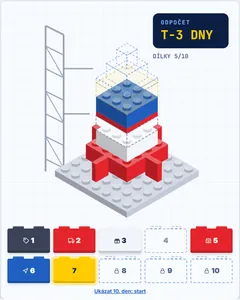
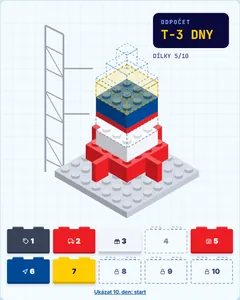
Tidy look picker into one panel, recolour rocket for a toy shop
Thumbnails, the device toggle and a one-line caption of the chosen look
now sit in a single bordered panel; the caption no longer repeats the
category. The rocket countdown uses the Sparkys palette (navy, blue,
light blue, green, yellow, red).

diff --git a/index.html b/index.html
@@ -181,36 +181,37 @@
   .demo-bar .grp.device .seg button { background: #f4f4f5; border-color: transparent; }
   .demo-bar .grp.device .seg button[aria-pressed="true"] { background: var(--ink); border-color: var(--ink); }
 
-  /* výběr vzhledu: pás náhledů jako v galerii, popis vybraného pod ním */
-  .demo-bar { align-items: flex-end; justify-content: space-between; }
-  .vz { min-width: 0; flex: 1 1 auto; }
-  .vz-strip { display: flex; align-items: flex-end; gap: 14px; min-width: 0; }
+  /* výběr vzhledu: jeden panel s náhledy, přepínačem zobrazení a názvem vybraného */
+  .demo-bar { display: grid; grid-template-columns: minmax(0, 1fr) auto; align-items: start; gap: 0 24px; margin: 0 0 22px; padding: 14px 16px 0; border: 1px solid var(--line); border-radius: 18px; background: #fff; }
+  .vz { min-width: 0; }
+  .vz-strip { display: flex; align-items: flex-start; gap: 18px; min-width: 0; padding-bottom: 14px; }
   .vz-set { flex: none; }
-  .vz-k { display: block; margin: 0 0 6px 2px; font-size: 10.5px; font-weight: 700; letter-spacing: .1em; text-transform: uppercase; color: var(--ink-3); white-space: nowrap; }
+  .vz-k { display: block; margin: 0 0 8px; font-size: 10.5px; font-weight: 700; letter-spacing: .1em; text-transform: uppercase; color: var(--ink-3); white-space: nowrap; }
   .vz-thumbs { display: flex; gap: 6px; }
-  .vz-sep { align-self: stretch; width: 1px; margin: 18px 0 2px; background: var(--line); }
-  .vz-th { position: relative; flex: none; width: 60px; height: 75px; padding: 0; border: 0; border-radius: 8px; overflow: hidden; background: #ececef; cursor: pointer; opacity: .55; box-shadow: 0 0 0 1px rgba(0,0,0,.08); transition: opacity .15s ease, transform .15s ease, box-shadow .15s ease; }
+  .vz-sep { align-self: stretch; flex: none; width: 1px; background: var(--line); }
+  .vz-th { position: relative; flex: none; width: 56px; height: 70px; padding: 0; border: 0; border-radius: 8px; overflow: hidden; background: #ececef; cursor: pointer; opacity: .6; box-shadow: 0 0 0 1px rgba(0,0,0,.08); transition: opacity .15s ease, box-shadow .15s ease; }
   .vz-th img { display: block; width: 100%; height: 100%; object-fit: cover; }
-  .vz-th:hover { opacity: 1; transform: translateY(-2px); }
+  .vz-th:hover { opacity: 1; }
   .vz-th:focus-visible { outline: 3px solid var(--accent); outline-offset: 2px; opacity: 1; }
-  .vz-th[aria-pressed="true"] { opacity: 1; box-shadow: 0 0 0 2px #fff, 0 0 0 4px var(--accent), 0 6px 14px rgba(0,0,0,.18); }
+  .vz-th[aria-pressed="true"] { opacity: 1; box-shadow: 0 0 0 2px #fff, 0 0 0 4px var(--accent); }
   /* internal marker for new proposals: remove before publishing */
   .vz-new { position: absolute; right: 4px; top: 4px; width: 8px; height: 8px; border-radius: 50%; background: var(--accent); box-shadow: 0 0 0 2px #fff; }
-  .vz-cap { display: flex; flex-wrap: wrap; align-items: baseline; gap: 4px 10px; margin-top: 12px; min-height: 26px; }
-  .vz-cap-k { font-size: 11px; font-weight: 700; letter-spacing: .1em; text-transform: uppercase; color: var(--ink-3); }
-  .vz-cap strong { font-size: 19px; font-weight: 800; letter-spacing: -0.01em; color: var(--ink); }
-  .vz-cap-m { font-size: 14px; color: var(--ink-3); }
-  .vz-cap-s { align-self: center; padding: 3px 9px; border-radius: 100px; background: #14141a; color: #fff; font-size: 11px; font-weight: 700; }
-  .vz-cap-s.new { background: var(--accent); }
+  .demo-bar .grp.device { display: block; padding: 0; border: 0; }
+  .demo-bar .grp.device .seg { display: flex; gap: 2px; padding: 3px; border-radius: 100px; background: #f1f1f3; }
+  .demo-bar .grp.device .seg button { border: 0; background: transparent; padding: 6px 12px; }
+  .demo-bar .grp.device .seg button[aria-pressed="true"] { background: #fff; color: var(--ink); box-shadow: 0 1px 3px rgba(0,0,0,.14); }
+  .vz-cap { grid-column: 1 / -1; display: flex; flex-wrap: wrap; align-items: center; gap: 4px 12px; padding: 11px 0 12px; border-top: 1px solid var(--line); }
+  .vz-cap strong { font-size: 16px; font-weight: 800; color: var(--ink); }
+  .vz-cap-m { font-size: 13.5px; color: var(--ink-3); }
+  .vz-cap-s { padding: 3px 9px; border-radius: 100px; background: #f1f1f3; color: var(--ink); font-size: 11px; font-weight: 700; }
+  .vz-cap-s.new { background: var(--accent); color: #fff; }
   .vz-cap-s[hidden] { display: none; }
-  .demo-bar .grp.device { flex: none; margin-bottom: 2px; }
   @media (max-width: 860px) {
-    .demo-bar { flex-direction: column; flex-wrap: nowrap; align-items: stretch; }
-    .vz { width: 100%; }
-    .vz-strip { overflow-x: auto; margin: 0 -16px; padding: 4px 16px 8px; scrollbar-width: thin; }
-    .demo-bar .grp.device { align-self: flex-start; }
+    .demo-bar { grid-template-columns: minmax(0, 1fr); }
+    .vz-strip { overflow-x: auto; margin: 0 -16px; padding: 0 16px 12px; scrollbar-width: thin; }
+    .demo-bar .grp.device { justify-self: start; padding-bottom: 12px; }
   }
-  @media (prefers-reduced-motion: reduce) { .vz-th { transition: none; } .vz-th:hover { transform: none; } }
+  @media (prefers-reduced-motion: reduce) { .vz-th { transition: none; } }
   .demo-bar input[type=range] { accent-color: var(--accent); width: 170px; }
   .demo-bar output { font-weight: 800; font-size: 15px; min-width: 28px; display: inline-block; }
   .demo-note { font-size: 13px; color: var(--ink-3); margin: 10px 0 0; }
@@ -312,9 +313,9 @@
   @media (prefers-reduced-motion: reduce) { .demo .d-card, .demo .dc-fx, .demo .shake, .demo .door.just, .demo .win.just { animation: none !important; } .demo .dc-fx { display: none; } }
 
   /* téma: Odpočet ke startu (stavebnice, kreslené v kódu) */
-  .demo[data-theme="raketa"] { --d-bg: #eef3fb; --d-ink: #0b1f44; --d-ink-2: #4a5f86; --d-today: #ffcc00; --d-today-ink: #0b1f44; --d-btn: #e3242b; --d-btn-ink: #fff; --d-font: 'Inter', 'Inter Fallback', Arial, sans-serif; --d-card: #fff; --d-card-line: #d3deef; }
+  .demo[data-theme="raketa"] { --d-bg: #d4edfc; --d-ink: #0b093b; --d-ink-2: #3d4a7a; --d-today: #ffcd00; --d-today-ink: #0b093b; --d-btn: #52c018; --d-btn-ink: #fff; --d-font: 'Inter', 'Inter Fallback', Arial, sans-serif; --d-card: #fff; --d-card-line: #b9dcf3; }
   .demo[data-theme="raketa"] .d-title { font-weight: 900; letter-spacing: -0.035em; }
-  .demo .scene.raketa { aspect-ratio: 4 / 5; max-width: 480px; display: flex; flex-direction: column; background: #f8fbff; border: 1px solid #d3deef; box-shadow: 0 16px 40px rgba(11,31,68,.16); }
+  .demo .scene.raketa { aspect-ratio: 4 / 5; max-width: 480px; display: flex; flex-direction: column; background: #f3faff; border: 1px solid #b9dcf3; box-shadow: 0 16px 40px rgba(11,31,68,.16); }
   .demo .scene.raketa .rk { display: block; width: 100%; flex: 1 1 auto; min-height: 0; }
   .demo .rk .rk-l { transform-box: view-box; }
   .demo .rk .rk-l.today { animation: rkHint 1.6s ease-in-out infinite; }
@@ -335,17 +336,17 @@
   .demo .rk.launch .rk-done { animation: rkDone .6s 2.6s ease both; }
   @keyframes rkDone { from { opacity: 0; transform: translateY(10px); } to { opacity: 1; transform: none; } }
   .demo .rk-dily { display: grid; grid-template-columns: repeat(5, minmax(0, 1fr)); gap: 14px 8px; padding: 4px 16px 14px; }
-  .demo .dil { position: relative; aspect-ratio: 2 / 1.15; border: 0; border-radius: 4px; padding: 0; font: inherit; font-weight: 900; font-size: clamp(13px, 1.6vw, 17px); color: #fff; background: var(--c, #1f5fbf); box-shadow: inset 0 -5px 0 rgba(0,0,0,.18), 0 3px 6px rgba(11,31,68,.18); display: flex; align-items: center; justify-content: center; gap: 4px; transition: transform .15s ease; }
+  .demo .dil { position: relative; aspect-ratio: 2 / 1.15; border: 0; border-radius: 4px; padding: 0; font: inherit; font-weight: 900; font-size: clamp(13px, 1.6vw, 17px); color: #fff; background: var(--c, #004996); box-shadow: inset 0 -5px 0 rgba(0,0,0,.18), 0 3px 6px rgba(11,31,68,.18); display: flex; align-items: center; justify-content: center; gap: 4px; transition: transform .15s ease; }
   .demo .dil::before, .demo .dil::after { content: ""; position: absolute; top: -6px; width: 26%; height: 7px; border-radius: 3px 3px 0 0; background: inherit; box-shadow: inset 0 2px 0 rgba(255,255,255,.35); }
   .demo .dil::before { left: 13%; } .demo .dil::after { right: 13%; }
   .demo .dil:hover { transform: translateY(-2px); }
   .demo .dil svg { width: 15px; height: 15px; }
-  .demo .dil.locked, .demo .dil.missed { background: transparent; color: #4a5f86; box-shadow: none; outline: 2px dashed rgba(31,95,191,.45); outline-offset: -2px; }
-  .demo .dil.locked::before, .demo .dil.locked::after, .demo .dil.missed::before, .demo .dil.missed::after { background: transparent; box-shadow: none; outline: 2px dashed rgba(31,95,191,.35); outline-offset: -2px; }
+  .demo .dil.locked, .demo .dil.missed { background: transparent; color: #3d4a7a; box-shadow: none; outline: 2px dashed rgba(0,73,150,.45); outline-offset: -2px; }
+  .demo .dil.locked::before, .demo .dil.locked::after, .demo .dil.missed::before, .demo .dil.missed::after { background: transparent; box-shadow: none; outline: 2px dashed rgba(0,73,150,.35); outline-offset: -2px; }
   .demo .dil.missed { color: #8a94a8; text-decoration: line-through; outline-color: rgba(138,148,168,.6); }
-  .demo .dil.today { background: #ffcc00; color: #0b1f44; animation: rkPulse 1.6s ease-in-out infinite; }
+  .demo .dil.today { background: #ffcd00; color: #0b093b; animation: rkPulse 1.6s ease-in-out infinite; }
   @keyframes rkPulse { 50% { box-shadow: inset 0 -5px 0 rgba(0,0,0,.12), 0 0 0 6px rgba(255,204,0,.35); } }
-  .demo .rk-start { align-self: center; margin: -4px 0 10px; border: 0; background: none; font: inherit; font-size: 12.5px; font-weight: 700; color: #1f5fbf; text-decoration: underline; cursor: pointer; }
+  .demo .rk-start { align-self: center; margin: -4px 0 10px; border: 0; background: none; font: inherit; font-size: 12.5px; font-weight: 700; color: #004996; text-decoration: underline; cursor: pointer; }
   @media (prefers-reduced-motion: reduce) { .demo .rk .rk-l.today, .demo .rk .rk-l.drop, .demo .rk .rk-ring, .demo .dil.today, .demo .rk.launch .rk-ship, .demo .rk.launch .rk-flame { animation: none; } .demo .rk.launch .rk-done { animation: none; opacity: 1; } }
   /* téma: 7 nocí pro lepší spánek (fotka z Higgsfieldu, měsíc a světla v kódu) */
   .demo[data-theme="spani"] { --d-bg: #f5f1ec; --d-ink: #483628; --d-ink-2: #7d6b5c; --d-today: #c3a15a; --d-today-ink: #fff; --d-btn: #c3a15a; --d-btn-ink: #fff; --d-font: 'Inter', 'Inter Fallback', Arial, sans-serif; --d-card: #fff; --d-card-line: #e2dfdd; }
@@ -1185,14 +1186,14 @@
           <button type="button" class="vz-th" data-theme="pas" aria-pressed="false" aria-label="Cestovní pas" title="Cestovní pas" data-kat="Kdykoli během roku" data-meta="Duty free na hranici · 14 dní" data-stitek="Nový návrh" data-review-id="demo-vzhled-pas"><img src="img/nahledy/pas.webp" alt="" width="60" height="75" decoding="async"><i class="vz-new" aria-hidden="true"></i></button>
         </div></div>
       </div>
-      <div class="vz-cap" id="vz-cap" aria-live="polite"><span class="vz-cap-k" id="vz-cap-k">Vánoce a advent</span><strong id="vz-cap-t">Dům s okny</strong><span class="vz-cap-m" id="vz-cap-m">Fototechnika · 24 dní</span><span class="vz-cap-s" id="vz-cap-s">Skutečná kampaň</span></div>
     </div>
-    <div class="grp device"><span class="lbl" id="lbl-zarizeni">Zobrazení</span>
+    <div class="grp device"><span class="lbl vz-k" id="lbl-zarizeni">Zobrazení</span>
       <div class="seg" role="group" aria-labelledby="lbl-zarizeni">
         <button type="button" data-device="desktop" aria-pressed="true" data-review-id="demo-zobrazeni-pocitac"><svg viewBox="0 0 24 24" fill="none" stroke="currentColor" stroke-width="2" stroke-linecap="round" stroke-linejoin="round" aria-hidden="true" style="width:14px;height:14px"><rect x="2" y="4" width="20" height="13" rx="2"/><path d="M8 21h8M12 17v4"/></svg>Počítač</button>
         <button type="button" data-device="mobile" aria-pressed="false" data-review-id="demo-zobrazeni-mobil"><svg viewBox="0 0 24 24" fill="none" stroke="currentColor" stroke-width="2" stroke-linecap="round" stroke-linejoin="round" aria-hidden="true" style="width:14px;height:14px"><rect x="6" y="2" width="12" height="20" rx="2.5"/><path d="M11 18h2"/></svg>Mobil</button>
       </div>
     </div>
+    <div class="vz-cap" id="vz-cap" aria-live="polite"><strong id="vz-cap-t">Dům s okny</strong><span class="vz-cap-m" id="vz-cap-m">Fototechnika · 24 dní</span><span class="vz-cap-s" id="vz-cap-s">Skutečná kampaň</span></div>
   </div>
 
   <div class="demo-frame" id="demo-frame" data-review-id="demo-ram">
@@ -1577,7 +1578,7 @@
     '<ellipse cx="581" cy="480" rx="48" ry="44" fill="#000" opacity=".35"/><circle cx="575" cy="468" r="47" fill="#ffd400"/><circle cx="575" cy="468" r="45" fill="none" stroke="#c9a200" stroke-width="4"/><circle cx="575" cy="472" r="38" fill="#c2004e"/><circle cx="575" cy="468" r="37" fill="#ff0066"/><circle cx="575" cy="466" r="27" fill="#fff"/><circle cx="575" cy="466" r="25" fill="none" stroke="#ffd1e3" stroke-width="4"/><path d="M545 454 A33 33 0 0 1 569 434" stroke="#fff" stroke-width="5" stroke-linecap="round" fill="none" opacity=".75"/>' +
     '<ellipse cx="471" cy="584" rx="48" ry="44" fill="#000" opacity=".35"/><circle cx="465" cy="572" r="47" fill="#44bdb4"/><circle cx="465" cy="572" r="45" fill="none" stroke="#c9a200" stroke-width="4"/><circle cx="465" cy="576" r="38" fill="#c2004e"/><circle cx="465" cy="572" r="37" fill="#ff0066"/><circle cx="465" cy="570" r="27" fill="#fff"/><circle cx="465" cy="570" r="25" fill="none" stroke="#ffd1e3" stroke-width="4"/><path d="M435 558 A33 33 0 0 1 459 538" stroke="#fff" stroke-width="5" stroke-linecap="round" fill="none" opacity=".75"/>' +
     '<circle cx="144" cy="484" r="32" fill="#000" opacity=".3"/><circle cx="144" cy="480" r="32" fill="#002651"/><circle cx="144" cy="480" r="27" fill="#ff0066"/><circle cx="144" cy="480" r="25" fill="none" stroke="#c2004e" stroke-width="4"/><circle cx="144" cy="480" r="27" fill="url(#pb-shine)"/><path d="M135.6 433.6 L144 425.2 L152.4 433.6" fill="none" stroke="#ff0066" stroke-width="3.5999999999999996" stroke-linecap="round" stroke-linejoin="round" opacity="0.5"/><circle cx="144" cy="584" r="32" fill="#000" opacity=".3"/><circle cx="144" cy="580" r="32" fill="#002651"/><circle cx="144" cy="580" r="27" fill="#ff0066"/><circle cx="144" cy="580" r="25" fill="none" stroke="#c2004e" stroke-width="4"/><circle cx="144" cy="580" r="27" fill="url(#pb-shine)"/><path d="M135.6 533.6 L144 525.2 L152.4 533.6" fill="none" stroke="#ff0066" stroke-width="3.5999999999999996" stroke-linecap="round" stroke-linejoin="round" opacity="0.5"/><circle cx="144" cy="684" r="32" fill="#000" opacity=".3"/><circle cx="144" cy="680" r="32" fill="#002651"/><circle cx="144" cy="680" r="27" fill="#ff0066"/><circle cx="144" cy="680" r="25" fill="none" stroke="#c2004e" stroke-width="4"/><circle cx="144" cy="680" r="27" fill="url(#pb-shine)"/><path d="M135.6 633.6 L144 625.2 L152.4 633.6" fill="none" stroke="#ff0066" stroke-width="3.5999999999999996" stroke-linecap="round" stroke-linejoin="round" opacity="0.5"/><circle cx="788" cy="484" r="32" fill="#000" opacity=".3"/><circle cx="788" cy="480" r="32" fill="#002651"/><circle cx="788" cy="480" r="27" fill="#ff0066"/><circle cx="788" cy="480" r="25" fill="none" stroke="#c2004e" stroke-width="4"/><circle cx="788" cy="480" r="27" fill="url(#pb-shine)"/><path d="M779.6 433.6 L788 425.2 L796.4 433.6" fill="none" stroke="#ff0066" stroke-width="3.5999999999999996" stroke-linecap="round" stroke-linejoin="round" opacity="0.5"/><circle cx="788" cy="584" r="32" fill="#000" opacity=".3"/><circle cx="788" cy="580" r="32" fill="#002651"/><circle cx="788" cy="580" r="27" fill="#ff0066"/><circle cx="788" cy="580" r="25" fill="none" stroke="#c2004e" stroke-width="4"/><circle cx="788" cy="580" r="27" fill="url(#pb-shine)"/><path d="M779.6 533.6 L788 525.2 L796.4 533.6" fill="none" stroke="#ff0066" stroke-width="3.5999999999999996" stroke-linecap="round" stroke-linejoin="round" opacity="0.5"/><circle cx="788" cy="684" r="32" fill="#000" opacity=".3"/><circle cx="788" cy="680" r="32" fill="#002651"/><circle cx="788" cy="680" r="27" fill="#ff0066"/><circle cx="788" cy="680" r="25" fill="none" stroke="#c2004e" stroke-width="4"/><circle cx="788" cy="680" r="27" fill="url(#pb-shine)"/><path d="M779.6 633.6 L788 625.2 L796.4 633.6" fill="none" stroke="#ff0066" stroke-width="3.5999999999999996" stroke-linecap="round" stroke-linejoin="round" opacity="0.5"/>' +
-    '<rect x="240" y="716" width="450" height="20" rx="8" fill="#002651"/><rect x="240" y="716" width="450" height="20" rx="8" fill="none" stroke="url(#pb-chrome)" stroke-width="3"/><rect x="261" y="675" width="58" height="50" rx="9" fill="#000" opacity=".3"/><rect x="256" y="668" width="58" height="52" rx="9" fill="#c79a00"/><rect x="256" y="668" width="58" height="44" rx="9" fill="#ffcc00"/><rect x="264" y="675" width="42" height="9" rx="4.5" fill="#fff" opacity=".45"/><rect x="351" y="675" width="58" height="50" rx="9" fill="#000" opacity=".3"/><rect x="346" y="668" width="58" height="52" rx="9" fill="#c79a00"/><rect x="346" y="668" width="58" height="44" rx="9" fill="#ffcc00"/><rect x="354" y="675" width="42" height="9" rx="4.5" fill="#fff" opacity=".45"/><rect x="441" y="675" width="58" height="50" rx="9" fill="#000" opacity=".3"/><rect x="436" y="668" width="58" height="52" rx="9" fill="#c79a00"/><rect x="436" y="668" width="58" height="44" rx="9" fill="#ffcc00"/><rect x="444" y="675" width="42" height="9" rx="4.5" fill="#fff" opacity=".45"/><rect x="531" y="675" width="58" height="50" rx="9" fill="#000" opacity=".3"/><rect x="526" y="668" width="58" height="52" rx="9" fill="#c79a00"/><rect x="526" y="668" width="58" height="44" rx="9" fill="#ffcc00"/><rect x="534" y="675" width="42" height="9" rx="4.5" fill="#fff" opacity=".45"/><rect x="621" y="675" width="58" height="50" rx="9" fill="#000" opacity=".3"/><rect x="616" y="668" width="58" height="52" rx="9" fill="#c79a00"/><rect x="616" y="668" width="58" height="44" rx="9" fill="#ffcc00"/><rect x="624" y="675" width="42" height="9" rx="4.5" fill="#fff" opacity=".45"/>' +
+    '<rect x="240" y="716" width="450" height="20" rx="8" fill="#002651"/><rect x="240" y="716" width="450" height="20" rx="8" fill="none" stroke="url(#pb-chrome)" stroke-width="3"/><rect x="261" y="675" width="58" height="50" rx="9" fill="#000" opacity=".3"/><rect x="256" y="668" width="58" height="52" rx="9" fill="#c79a00"/><rect x="256" y="668" width="58" height="44" rx="9" fill="#ffcd00"/><rect x="264" y="675" width="42" height="9" rx="4.5" fill="#fff" opacity=".45"/><rect x="351" y="675" width="58" height="50" rx="9" fill="#000" opacity=".3"/><rect x="346" y="668" width="58" height="52" rx="9" fill="#c79a00"/><rect x="346" y="668" width="58" height="44" rx="9" fill="#ffcd00"/><rect x="354" y="675" width="42" height="9" rx="4.5" fill="#fff" opacity=".45"/><rect x="441" y="675" width="58" height="50" rx="9" fill="#000" opacity=".3"/><rect x="436" y="668" width="58" height="52" rx="9" fill="#c79a00"/><rect x="436" y="668" width="58" height="44" rx="9" fill="#ffcd00"/><rect x="444" y="675" width="42" height="9" rx="4.5" fill="#fff" opacity=".45"/><rect x="531" y="675" width="58" height="50" rx="9" fill="#000" opacity=".3"/><rect x="526" y="668" width="58" height="52" rx="9" fill="#c79a00"/><rect x="526" y="668" width="58" height="44" rx="9" fill="#ffcd00"/><rect x="534" y="675" width="42" height="9" rx="4.5" fill="#fff" opacity=".45"/><rect x="621" y="675" width="58" height="50" rx="9" fill="#000" opacity=".3"/><rect x="616" y="668" width="58" height="52" rx="9" fill="#c79a00"/><rect x="616" y="668" width="58" height="44" rx="9" fill="#ffcd00"/><rect x="624" y="675" width="42" height="9" rx="4.5" fill="#fff" opacity=".45"/>' +
     '<circle cx="465" cy="819" r="32" fill="#000" opacity=".3"/><circle cx="465" cy="815" r="32" fill="#002651"/><circle cx="465" cy="815" r="27" fill="#1dca62"/><circle cx="465" cy="815" r="25" fill="none" stroke="#c9a200" stroke-width="4"/><circle cx="465" cy="815" r="27" fill="url(#pb-shine)"/><circle cx="465" cy="899" r="32" fill="#000" opacity=".3"/><circle cx="465" cy="895" r="32" fill="#002651"/><circle cx="465" cy="895" r="27" fill="#ffd400"/><circle cx="465" cy="895" r="25" fill="none" stroke="#c9a200" stroke-width="4"/><circle cx="465" cy="895" r="27" fill="url(#pb-shine)"/><circle cx="465" cy="979" r="32" fill="#000" opacity=".3"/><circle cx="465" cy="975" r="32" fill="#002651"/><circle cx="465" cy="975" r="27" fill="#44bdb4"/><circle cx="465" cy="975" r="25" fill="none" stroke="#c9a200" stroke-width="4"/><circle cx="465" cy="975" r="27" fill="url(#pb-shine)"/>' +
     '<path d="M122 845 L122 1030 L282 1075 Z" fill="#000" opacity=".3" transform="translate(6 8)" stroke="#000" stroke-width="16" stroke-linejoin="round"/><path d="M122 845 L122 1030 L282 1075 Z" fill="#ff0066" stroke="#fff" stroke-width="16" stroke-linejoin="round"/><path d="M122 845 L122 1030 L282 1075 Z" fill="none" stroke="#c2004e" stroke-width="3" stroke-linejoin="round"/><circle cx="170" cy="1004" r="29" fill="#000" opacity=".3"/><circle cx="170" cy="1000" r="29" fill="#002651"/><circle cx="170" cy="1000" r="24" fill="#1dca62"/><circle cx="170" cy="1000" r="22" fill="none" stroke="#c9a200" stroke-width="4"/><circle cx="170" cy="1000" r="24" fill="url(#pb-shine)"/>' +
     '<path d="M808 845 L808 1030 L648 1075 Z" fill="#000" opacity=".3" transform="translate(6 8)" stroke="#000" stroke-width="16" stroke-linejoin="round"/><path d="M808 845 L808 1030 L648 1075 Z" fill="#ff0066" stroke="#fff" stroke-width="16" stroke-linejoin="round"/><path d="M808 845 L808 1030 L648 1075 Z" fill="none" stroke="#c2004e" stroke-width="3" stroke-linejoin="round"/><circle cx="760" cy="1004" r="29" fill="#000" opacity=".3"/><circle cx="760" cy="1000" r="29" fill="#002651"/><circle cx="760" cy="1000" r="24" fill="#ffd400"/><circle cx="760" cy="1000" r="22" fill="none" stroke="#c9a200" stroke-width="4"/><circle cx="760" cy="1000" r="24" fill="url(#pb-shine)"/>' +
@@ -1608,15 +1609,15 @@
   // raketa ze stavebnice: izometrické kostky v SVG, jedna vrstva = jeden den
   var RK = [
     { w: 2, h: 1, c: '#3b4357' },
-    { w: 4, h: 1.2, c: '#e3242b', fins: 1 },
+    { w: 4, h: 1.2, c: '#ee1d23', fins: 1 },
     { w: 3, h: 1.2, c: '#f2f5fa' },
     { w: 3, h: 1.2, c: '#f2f5fa', win: 1 },
-    { w: 3, h: 0.4, c: '#e3242b' },
-    { w: 3, h: 1.2, c: '#1f5fbf' },
+    { w: 3, h: 0.4, c: '#ee1d23' },
+    { w: 3, h: 1.2, c: '#004996' },
     { w: 3, h: 1.2, c: '#f2f5fa', win: 1 },
-    { w: 3, h: 0.4, c: '#ffcc00' },
-    { w: 2, h: 1.2, c: '#e3242b' },
-    { w: 1, h: 1.2, c: '#e3242b', ant: 1 }
+    { w: 3, h: 0.4, c: '#ffcd00' },
+    { w: 2, h: 1.2, c: '#52c018' },
+    { w: 1, h: 1.2, c: '#ee1d23', ant: 1 }
   ];
   function odstin(hex, f) {
     var n = parseInt(hex.slice(1), 16), r = n >> 16, g = n >> 8 & 255, b = n & 255, t = f < 0 ? 0 : 255, p = Math.abs(f);
@@ -1640,11 +1641,11 @@
     }
     function okynko(x, z) {
       var p = P(x, 0, z).split(','), a = -K * U * 0.55, b = 0.5 * U * 0.55, d = -U * 0.55;
-      return '<g transform="matrix(' + a.toFixed(2) + ' ' + b.toFixed(2) + ' 0 ' + d.toFixed(2) + ' ' + p[0] + ' ' + p[1] + ')"><circle r="1" fill="#c9d6ea"/><circle r=".72" fill="#0b1f44"/><circle cx="-.25" cy=".25" r=".22" fill="#7fb2ff"/></g>';
+      return '<g transform="matrix(' + a.toFixed(2) + ' ' + b.toFixed(2) + ' 0 ' + d.toFixed(2) + ' ' + p[0] + ' ' + p[1] + ')"><circle r="1" fill="#c9d6ea"/><circle r=".72" fill="#0b093b"/><circle cx="-.25" cy=".25" r=".22" fill="#7fb2ff"/></g>';
     }
     function vrstva(L, z, s) {
       var x0 = -L.w / 2, out = '';
-      var ghost = s === 'missed' ? 'fill="none" stroke="#8a94a8" stroke-width="1.4" stroke-dasharray="4 3"' : s === 'today' ? 'fill="rgba(255,204,0,.22)" stroke="#e0a800" stroke-width="2" stroke-dasharray="5 3"' : 'fill="none" stroke="#1f5fbf" stroke-opacity=".45" stroke-width="1.2" stroke-dasharray="3 3"';
+      var ghost = s === 'missed' ? 'fill="none" stroke="#8a94a8" stroke-width="1.4" stroke-dasharray="4 3"' : s === 'today' ? 'fill="rgba(255,204,0,.22)" stroke="#e0a800" stroke-width="2" stroke-dasharray="5 3"' : 'fill="none" stroke="#004996" stroke-opacity=".45" stroke-width="1.2" stroke-dasharray="3 3"';
       if (s !== 'open') {
         if (L.fins) out += kvadr(x0 - 1.2, -0.2, z, 1.2, 0.4, L.h, '', ghost) + kvadr(-0.2, x0 - 1.2, z, 0.4, 1.2, L.h, '', ghost);
         out += kvadr(x0, x0, z, L.w, L.w, L.h, '', ghost);
@@ -1654,12 +1655,12 @@
       if (L.fins) out += kvadr(x0 - 1.2, -0.2, z - 0.3, 1.2, 0.4, L.h + 0.3, L.c) + kvadr(-0.2, x0 - 1.2, z - 0.3, 0.4, 1.2, L.h + 0.3, L.c);
       out += kvadr(x0, x0, z, L.w, L.w, L.h, L.c);
       if (L.win) out += okynko(-x0, z + L.h / 2);
-      if (L.ant) out += kvadr(-0.15, -0.15, z + L.h, 0.3, 0.3, 0.9, '#9aa3b5') + '<circle cx="' + P(0, 0, z + L.h + 1.05).split(',')[0] + '" cy="' + P(0, 0, z + L.h + 1.05).split(',')[1] + '" r="3.2" fill="#ffcc00"/>';
+      if (L.ant) out += kvadr(-0.15, -0.15, z + L.h, 0.3, 0.3, 0.9, '#9aa3b5') + '<circle cx="' + P(0, 0, z + L.h + 1.05).split(',')[0] + '" cy="' + P(0, 0, z + L.h + 1.05).split(',')[1] + '" r="3.2" fill="#ffcd00"/>';
       else out += cudliky(x0, x0, z + L.h, L.w, L.c);
       if (L.fins) out += kvadr(-x0, -0.2, z - 0.3, 1.2, 0.4, L.h + 0.3, L.c) + kvadr(-0.2, -x0, z - 0.3, 0.4, 1.2, L.h + 0.3, L.c);
       return out;
     }
-    var s = '<svg class="rk' + (vse ? ' launch' : '') + '" viewBox="0 0 420 400" aria-hidden="true"><defs><pattern id="rk-grid" width="20" height="20" patternUnits="userSpaceOnUse"><path d="M20 0H0V20" fill="none" stroke="#1f5fbf" stroke-opacity=".09"/></pattern></defs><rect width="420" height="400" fill="url(#rk-grid)"/>';
+    var s = '<svg class="rk' + (vse ? ' launch' : '') + '" viewBox="0 0 420 400" aria-hidden="true"><defs><pattern id="rk-grid" width="20" height="20" patternUnits="userSpaceOnUse"><path d="M20 0H0V20" fill="none" stroke="#004996" stroke-opacity=".09"/></pattern></defs><rect width="420" height="400" fill="url(#rk-grid)"/>';
     // rampa a věž
     s += '<g stroke="#9aa3b5" stroke-width="3" fill="none"><path d="M78 302V44M110 318V60M78 44l32 16"/><path d="M78 80l32 16M78 120l32 16M78 160l32 16M78 200l32 16M78 240l32 16M78 280l32 16" stroke-width="2"/><path d="M78 80l32 56M78 160l32 56M78 240l32 56" stroke-width="1.5"/><path d="M110 120h52M110 200h46" stroke-width="2.5"/></g>';
     s += kvadr(-3.5, -3.5, -0.5, 7, 7, 0.5, '#c3cad8') + cudliky(-3.5, -3.5, 0, 7, '#c3cad8');
@@ -1670,14 +1671,14 @@
     for (d = 1; d <= RK.length; d++) {
       var st = vse ? 'open' : stavy[d - 1];
       s += '<g class="rk-l ' + st + (padajici === d ? ' drop' : '') + '">' + vrstva(RK[d - 1], z, st) + '</g>';
-      if (padajici === d) { var pc = P(0, 0, z).split(','); kolem = '<ellipse class="rk-ring" cx="' + pc[0] + '" cy="' + pc[1] + '" rx="' + (RK[d - 1].w * U * 0.9) + '" ry="' + (RK[d - 1].w * U * 0.5) + '" fill="none" stroke="#ffcc00" stroke-width="3"/>'; }
+      if (padajici === d) { var pc = P(0, 0, z).split(','); kolem = '<ellipse class="rk-ring" cx="' + pc[0] + '" cy="' + pc[1] + '" rx="' + (RK[d - 1].w * U * 0.9) + '" ry="' + (RK[d - 1].w * U * 0.5) + '" fill="none" stroke="#ffcd00" stroke-width="3"/>'; }
       z += RK[d - 1].h;
     }
     s += kolem + '</g>';
     var hotovo = stavy.filter(function (x) { return x === 'open'; }).length, zbyva = vse ? 0 : RK.length - dnes;
-    s += '<g font-family="JetBrains Mono, monospace" font-weight="700"><rect x="268" y="22" width="134" height="62" rx="10" fill="#0b1f44"/><text x="282" y="42" font-size="10" fill="#7fb2ff" letter-spacing="1.5">ODPOČET</text><text x="282" y="68" font-size="22" fill="#ffcc00">' + (zbyva ? 'T−' + zbyva + (zbyva === 1 ? ' DEN' : zbyva < 5 ? ' DNY' : ' DNÍ') : 'START') + '</text>';
-    s += '<text x="268" y="102" font-size="10.5" fill="#4a5f86">DÍLKY ' + (vse ? RK.length : hotovo) + '/' + RK.length + '</text></g>';
-    s += '<g class="rk-done" font-family="Inter, Arial, sans-serif" text-anchor="middle"><text x="232" y="190" font-size="30" font-weight="900" fill="#0b1f44">Start!</text><text x="232" y="216" font-size="14" font-weight="600" fill="#4a5f86">Nová řada je venku.</text></g>';
+    s += '<g font-family="JetBrains Mono, monospace" font-weight="700"><rect x="268" y="22" width="134" height="62" rx="10" fill="#0b093b"/><text x="282" y="42" font-size="10" fill="#7fb2ff" letter-spacing="1.5">ODPOČET</text><text x="282" y="68" font-size="22" fill="#ffcd00">' + (zbyva ? 'T−' + zbyva + (zbyva === 1 ? ' DEN' : zbyva < 5 ? ' DNY' : ' DNÍ') : 'START') + '</text>';
+    s += '<text x="268" y="102" font-size="10.5" fill="#3d4a7a">DÍLKY ' + (vse ? RK.length : hotovo) + '/' + RK.length + '</text></g>';
+    s += '<g class="rk-done" font-family="Inter, Arial, sans-serif" text-anchor="middle"><text x="232" y="190" font-size="30" font-weight="900" fill="#0b093b">Start!</text><text x="232" y="216" font-size="14" font-weight="600" fill="#3d4a7a">Nová řada je venku.</text></g>';
     return s + '</svg>';
   }
 
@@ -1928,7 +1929,6 @@
     Array.prototype.forEach.call(document.querySelectorAll('button[data-theme]'), function (o) { o.setAttribute('aria-pressed', o.getAttribute('data-theme') === t ? 'true' : 'false'); });
     var vyb = document.querySelector('button.vz-th[data-theme="' + t + '"]');
     if (vyb) {
-      document.getElementById('vz-cap-k').textContent = vyb.getAttribute('data-kat');
       document.getElementById('vz-cap-t').textContent = vyb.getAttribute('aria-label');
       document.getElementById('vz-cap-m').textContent = vyb.getAttribute('data-meta');
       var st = document.getElementById('vz-cap-s'); st.textContent = vyb.getAttribute('data-stitek'); st.hidden = !st.textContent;
@@ -1958,9 +1958,9 @@
     var w = 1000, h = 700, r = rnd(th.length * 7 + 3), s = '', i;
     deco.setAttribute('viewBox', '0 0 ' + w + ' ' + h); deco.setAttribute('preserveAspectRatio', 'none');
     if (th === 'raketa') {
-      for (i = 0; i <= w; i += 50) s += '<path d="M' + i + ' 0V' + h + '" stroke="#1f5fbf" stroke-opacity=".06"/>';
-      for (i = 0; i <= h; i += 50) s += '<path d="M0 ' + i + 'H' + w + '" stroke="#1f5fbf" stroke-opacity=".06"/>';
-      for (i = 0; i < 14; i++) { var px = Math.round(r() * w), py = Math.round(r() * h); s += '<path d="M' + (px - 5) + ' ' + py + 'h10M' + px + ' ' + (py - 5) + 'v10" stroke="#1f5fbf" stroke-opacity=".25" stroke-width="1.5"/>'; }
+      for (i = 0; i <= w; i += 50) s += '<path d="M' + i + ' 0V' + h + '" stroke="#004996" stroke-opacity=".06"/>';
+      for (i = 0; i <= h; i += 50) s += '<path d="M0 ' + i + 'H' + w + '" stroke="#004996" stroke-opacity=".06"/>';
+      for (i = 0; i < 14; i++) { var px = Math.round(r() * w), py = Math.round(r() * h); s += '<path d="M' + (px - 5) + ' ' + py + 'h10M' + px + ' ' + (py - 5) + 'v10" stroke="#004996" stroke-opacity=".25" stroke-width="1.5"/>'; }
     } else if (th === 'fotoskoda' || th === 'snehulak') {
       for (i = 0; i < 80; i++) s += '<circle cx="' + (r() * w).toFixed(0) + '" cy="' + (r() * h).toFixed(0) + '" r="' + (0.8 + r() * 2).toFixed(1) + '" fill="#fff" opacity="' + (0.15 + r() * 0.45).toFixed(2) + '"/>';
     } else if (th === 'zlate') {
